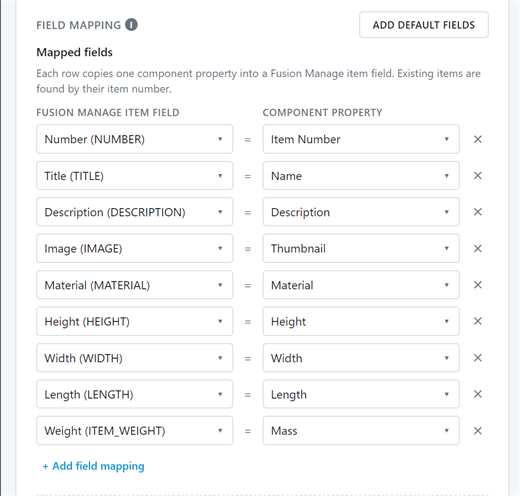
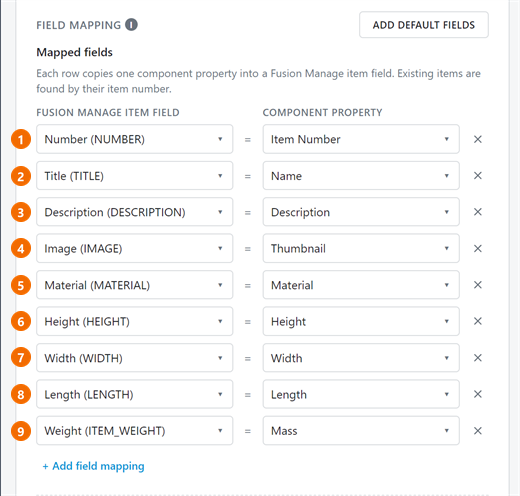
Add docs i18n skeleton and numbered balloons on annotated screenshots
Configure mkdocs-static-i18n with English default and a Japanese locale
(no translated pages yet, so pages fall back to English). Pin the docs
requirements. Add numbered balloons to six screenshots and a matching
number column to the tables that describe them.

diff --git a/src/ui/web/settings/js/language.js b/src/ui/web/settings/js/language.js
@@ -14,7 +14,8 @@
   const SLOTS = ['lang-slot-tab', 'lang-slot-login'];   // each holds one card, built here
 
   let draft = { code: '', name: '' };   // what was typed in the form that makes a language file, kept while the card is built again
-  let note = null;                      // {kind: 'ok' | 'error', title, text, path} shown under that form
+  let sent = null;                      // what Create sent, put back in the form if the file could not be made
+  let note = null;                     // {kind: 'ok' | 'error', title, text, path} shown under that form
   let pickedCode = null;                // the language chosen in the list, until the panels load again in it (null: none chosen)
   let report = null;                    // what Python found checking a language file against English's, shown under the list
   let pageError = '';                   // why the language chosen cannot be used, or checked, shown at the top of the card
@@ -300,7 +301,12 @@
     const create = button(t('language.create'), 'btn', function () {
       if (!complete()) return;
       note = null;
-      ns.bridge.send('new_language', { code: draft.code, name: draft.name });
+      sent = draft;
+      draft = { code: '', name: '' };   // cleared at once: a second press cannot make the file twice
+      code.value = '';
+      name.value = '';
+      create.disabled = true;
+      ns.bridge.send('new_language', { code: sent.code, name: sent.name });
     });
     /** Both are needed before a file can be made. */
     function complete() { return draft.code.trim() !== '' && draft.name.trim() !== ''; }
@@ -386,10 +392,10 @@
     ns.bridge.on('get_language', function (r) { if (r.ok) { useLanguages(r.result); render(); } });
     ns.bridge.on('new_language', function (r) {
       if (!r.ok) {
+        draft = sent || draft;   // the file was not made: what was typed comes back to be fixed
         note = { kind: 'error', title: t('language.failed'), text: r.error };
       } else {
         ns.i18n.use(r.result);
-        draft = { code: '', name: '' };
         note = { kind: 'ok', title: t('language.created_title'), text: t('language.created_next'), path: r.result.created };
       }
       render();

diff --git a/docs/item-panel/index.md b/docs/item-panel/index.md
@@ -25,6 +25,16 @@ The add-in finds the component you selected by its part number in the open desig
 
 ![The Item Panel on the Item tab: the title and status line, the Open in browser, Refresh and Actions buttons, the tabs, and the Basic and Technical Details sections with their fields](../images/item-panel.png){ width="700" }
 
+The numbers in the screenshot match the table.
+
+| # | Part | What it shows |
+|---|---|---|
+| 1 | Title and status line | The item's title, with its version, lifecycle state and type below it ([Header](#header)) |
+| 2 | Header buttons | **Open in browser**, **Refresh** and the **Actions** menu ([Header](#header)) |
+| 3 | Tabs | One tab for each part of the item, with a count where there is one ([Tabs](#tabs)) |
+| 4 | **Basic** section | The item's main fields as label and value ([Item](#item)) |
+| 5 | **Technical Details** section | A further section of the item, here with its fields laid out as a grid. Sections can be collapsed ([Item](#item)) |
+
 If no item has the number, the panel says **No Item Exists In Fusion Manage Yet**, shows the item number, and lists what publishing will do: open the Publish panel to review what will be sent, create the item in the Items workspace with the design's properties, and add its bill of materials if it is an assembly. Click **Publish to Fusion Manage** to open the [Publish panel](../publishing/index.md). If you may not view the workspace, it tells you so.
 
 ![The Item Panel when no item exists: the heading No Item Exists In Fusion Manage Yet, the item number PN-001291, the three steps publishing performs, and the Publish to Fusion Manage button](../images/item-not-found.png){ width="700" }
@@ -42,14 +52,16 @@ If more than one item in the Items workspace has the component's item number, th
 
 ![The Item Panel header with the Actions menu open, showing Republish and Export STEP File, beside the Open in browser and Refresh buttons](../images/item-actions.png){ width="700" }
 
-| Control | What it does |
-|---|---|
-| Title and status line | The item's title, and a line with its version, lifecycle state and Type. |
-| **Up-to-date check** (at the right end of the tabs) | A small circle turns while the panel compares the item's mapped fields with the open design, the same comparison the Publish panel makes. When all is well it disappears; when something differs it becomes an amber **OUT OF DATE** pill, and a red **CHECK FAILED** pill if the check could not be made. Click the pill to open a dialog that lists what differs (each field with what the open design holds beside what Fusion Manage holds, or each component with its two quantities) and has a **Republish** button that opens the Publish panel; for a failed check it gives the reason. Hover the pill for a short summary. The mark belongs to the tab shown, and the Item and Bill of Materials tabs have a check so far: the other tabs show no mark. (The Files tab marks out-of-date files on their own rows instead; see [Files](#files).) It is checked once each time the item is read in full (opening it, **Refresh**, an upload), not when you click the Item tab again. It is not shown for a component below the top of the design. |
-| **Open in browser** | Opens the item in Fusion Manage in your web browser. |
-| **Choose another item** | Shown only when several items share the number. Lists them again so you can pick a different one. |
-| **Refresh** | Reads the item again from Fusion Manage. |
-| **Actions** (⋯) | Uploads the technical representation: **Export STEP File** in a design, or the drawing PDF in a drawing. See [STEP File](../publishing/index.md#step-file) and [Drawing Representation](../publishing/index.md#drawing-representation). In a design the menu also has **Republish**, which opens the Publish panel. |
+The numbers in the screenshot match the table. Controls without a number appear only in some cases.
+
+| # | Control | What it does |
+|---|---|---|
+| 1 | Title and status line | The item's title, and a line with its version, lifecycle state and Type. |
+| | **Up-to-date check** (at the right end of the tabs) | A small circle turns while the panel compares the item's mapped fields with the open design, the same comparison the Publish panel makes. When all is well it disappears; when something differs it becomes an amber **OUT OF DATE** pill, and a red **CHECK FAILED** pill if the check could not be made. Click the pill to open a dialog that lists what differs (each field with what the open design holds beside what Fusion Manage holds, or each component with its two quantities) and has a **Republish** button that opens the Publish panel; for a failed check it gives the reason. Hover the pill for a short summary. The mark belongs to the tab shown, and the Item and Bill of Materials tabs have a check so far: the other tabs show no mark. (The Files tab marks out-of-date files on their own rows instead; see [Files](#files).) It is checked once each time the item is read in full (opening it, **Refresh**, an upload), not when you click the Item tab again. It is not shown for a component below the top of the design. |
+| 2 | **Open in browser** | Opens the item in Fusion Manage in your web browser. |
+| | **Choose another item** | Shown only when several items share the number. Lists them again so you can pick a different one. |
+| 3 | **Refresh** | Reads the item again from Fusion Manage. |
+| 4 | **Actions** (⋯) | Uploads the technical representation: **Export STEP File** in a design, or the drawing PDF in a drawing. See [STEP File](../publishing/index.md#step-file) and [Drawing Representation](../publishing/index.md#drawing-representation). In a design the menu also has **Republish**, which opens the Publish panel. |
 
 ## Required permission
 

diff --git a/docs/job-queue/index.md b/docs/job-queue/index.md
@@ -17,15 +17,16 @@ Jobs go through a **single queue, one after another**. A publish returns at once
 
 ## Reading the queue
 
-The panel is a table of every job that is waiting, running, failed or cancelled, newest first, **one row per job**. A job that went through leaves the list.
+The panel is a table of every job that is waiting, running, failed or cancelled, newest first, **one row per job**. A job that went through leaves the list. The numbers in the screenshot match the table.
 
-| Column | What it shows |
-|---|---|
-| **Status** | A pill with an icon and the status in words, the same width for every job |
-| **Job** | The name of the job, the design it publishes |
-| **Progress** | A sentence on where it stands, for example *Checking item numbers.*, *Publishing 4 of 5 items.*, *Updating the Bill of Materials, 12 of 40 requests.*, *Cancelled. Nothing was published.* or *Failed. 2 of 12 items failed.* |
-| **Time** | How long the job has taken, counting up while it runs. A dash while it waits |
-| | **Cancel** while it is waiting or running, **Retry** once it has failed |
+| # | Part | What it shows |
+|---|---|---|
+| 1 | **Status** | A pill with an icon and the status in words, the same width for every job |
+| 2 | **Job** | The name of the job, the design it publishes |
+| 3 | **Progress** | A sentence on where it stands, for example *Checking item numbers.*, *Publishing 4 of 5 items.*, *Updating the Bill of Materials, 12 of 40 requests.*, *Cancelled. Nothing was published.* or *Failed. 2 of 12 items failed.* |
+| 4 | **Time** | How long the job has taken, counting up while it runs. A dash while it waits |
+| 5 | **Cancel** or **Retry** | **Cancel** while the job is waiting or running, **Retry** once it has failed |
+| 6 | **Clear finished** | Removes finished jobs from the list (see [Actions](#actions)) |
 
 ![The Job Queue with one running job: a table with the columns Status, Job, Progress and Time, and a row for PN-000701 with the blue Running pill, the progress "Checking item numbers.", the time 0:03 and a Cancel button. The Clear finished button is at the bottom](../images/job-queue-panel.png){ width="1000" }
 

diff --git a/docs/getting-started/overview.md b/docs/getting-started/overview.md
@@ -96,13 +96,15 @@ Items are matched by **item number**, which the add-in reads from the component'
 
 The add-in adds an **Export** panel and an **Item Management** panel to the **Manage** tab of the ribbon in the **Design** and **Drawing** workspaces. **Administration** is a submenu of **Item Management**; its buttons are pinned to the ribbon.
 
-| Panel | Button | Purpose |
-|---|---|---|
-| Export | Export | Open the Export window: export the open design or drawing and attach the file to its item or component |
-| Item Management | Open Fusion Manage Item | Show the item of the selected component, or of the open design or drawing |
-| Item Management | Publish Fusion Manage Item (Design only) | Preview and publish the open design |
-| Item Management ▸ Administration | Job Queue | See publishes that are waiting, running and finished |
-| Item Management ▸ Administration | Preferences | Sign in, set the connection and the workspace mapping |
+The numbers in the screenshot below match the table. A button without a number is not in the screenshot.
+
+| # | Panel | Button | Purpose |
+|---|---|---|---|
+| 1 | Export | Export | Open the Export window: export the open design or drawing and attach the file to its item or component |
+| 2 | Item Management | Open Fusion Manage Item | Show the item of the selected component, or of the open design or drawing |
+| | Item Management | Publish Fusion Manage Item (Design only) | Preview and publish the open design |
+| 3 | Item Management ▸ Administration | Job Queue | See publishes that are waiting, running and finished |
+| 4 | Item Management ▸ Administration | Preferences | Sign in, set the connection and the workspace mapping |
 
 Most buttons stay greyed out until the Items workspace is configured (see [Item Workspace](../configuration/index.md#item-workspace)). The tooltip of a greyed-out button says why.
 

diff --git a/docs/configuration/index.md b/docs/configuration/index.md
@@ -273,6 +273,10 @@ To use it:
 | 8 | Physical Length | `LENGTH` | Bounding box |
 | 9 | Physical Mass | `ITEM_WEIGHT` | Converted to the field's unit |
 
+The numbers in the screenshot match the table: each row pairs the Fusion Manage field on the left with the property that fills it.
+
+![Mapped fields after Add default fields](../images/mapped-fields-defaults.png){ width="520" height="496" }
+
 Dimensions and mass are converted to the unit each Fusion Manage field is set to, and sent as plain numbers ([Physical properties and units](#physical-properties-and-units)). Physical properties are only available once the Data Model has finished calculating them ([Manufacturing Data Model](../reference/manufacturing-data-model.md#physical-properties)).
 
 #### Which fields your workspace needs
@@ -293,8 +297,6 @@ The add-in does not depend on any other field IDs. Map the fields you want publi
     Once the workspace has been validated, **Add default fields** leaves out any default whose field ID does not exist in your workspace. It does not warn you. If you load the defaults and a row you expected is missing, the field is missing, or its ID is different, in Fusion Manage.
 
 Check the result after loading: the **Mapped fields** list shows a row for each default your workspace has a field for, up to nine. If your workspace has been customised, add or correct the missing rows by hand.
-
-![Mapped fields after Add default fields](../images/mapped-fields-defaults.png){ width="520" height="496" }
 
 ### Default Fusion Manage Values
 

diff --git a/docs/publishing/index.md b/docs/publishing/index.md
@@ -255,6 +255,17 @@ Each line reads **Item Number - Part Name**. A component with no item number is 
 
 ![The Bill of Materials with status chips: a New line, a Review pair, and three Skipped lines under the 24mm Bearing assembly, with the 3 Lines Skipped pill at the bottom and the Filters drop-down and the collapse and expand buttons above the table](../images/bom-statuses.png){ width="900" }
 
+The numbers in the screenshot match the table.
+
+| # | Part | What it shows |
+|---|---|---|
+| 1 | **Filters** drop-down | Narrows the table to rows of one status ([Filters](#filters)) |
+| 2 | **Collapse all** and **Expand all** | Fold or unfold the whole tree ([Filters](#filters)) |
+| 3 | **New** chip | The design has the line and Fusion Manage does not; publishing adds it |
+| 4 | **Review** chip | A **New** line and a **Fusion Manage Only** line at the same position wait for your choice ([Paired rows](#paired-rows-a-replaced-item)) |
+| 5 | **Skipped** chip | The component has no item number, shares one, or sits below such a line; nothing is published for it. Hover the **i** for the reason |
+| 6 | **Lines Skipped** pill | How many lines are skipped |
+
 ### Filters
 
 The **Filters** drop-down above the table (top left) narrows it to rows of one status. Tick any number at once.
